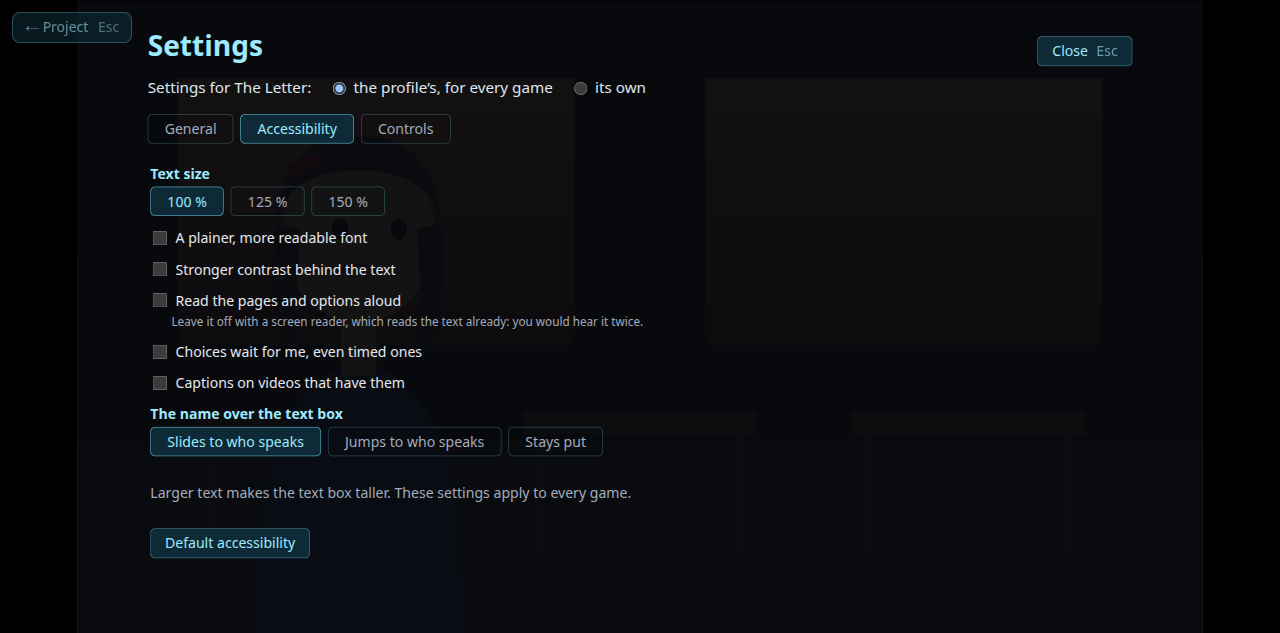
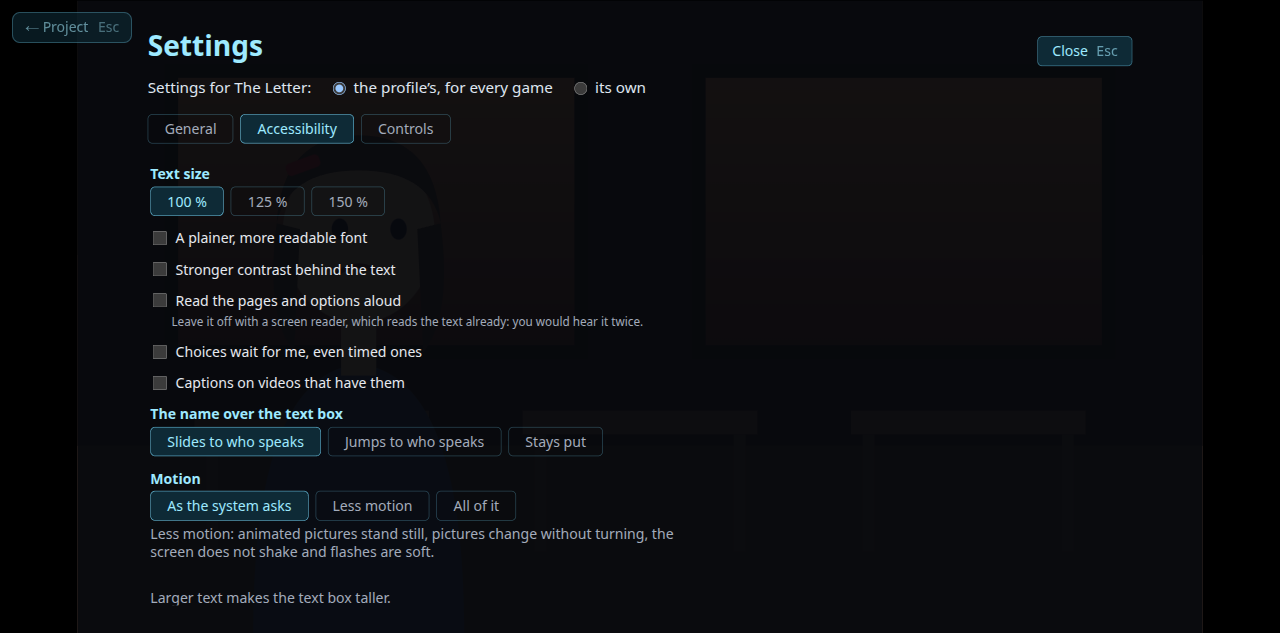
Guide images for the motion setting; the accessibility note no longer says every game

Changed region(s): [[0.0938, 0.7504, 0.5312, 0.9005], [0.125, 0.9305, 0.3125, 0.9605]]

diff --git a/packages/stage/src/i18n/settingsMessages.ts b/packages/stage/src/i18n/settingsMessages.ts
@@ -24,7 +24,7 @@ const en = {
   motions: { system: 'As the system asks', less: 'Less motion', full: 'All of it' } as Record<'system' | 'less' | 'full', string>,
   motionHelp: 'Less motion: animated pictures stand still, pictures change without turning, the screen does not shake and flashes are soft.',
   markTileHelp: 'Mark a tile works on a game board that marks, as Minesweeper flags: there its inputs mark the tile; everywhere else they keep their other use.',
-  accessibilityHelp: 'Larger text makes the text box taller. These settings apply to every game.',
+  accessibilityHelp: 'Larger text makes the text box taller.',
   actions: {
     advance: 'Next',
     back: 'Back',
@@ -97,7 +97,7 @@ const fr: SettingsMessages = {
   motions: { system: 'Comme le demande le système', less: 'Moins de mouvements', full: 'Tous' },
   motionHelp: 'Moins de mouvements\u00a0: les images animées restent immobiles, les images changent sans se retourner, l’écran ne tremble pas et les flashs sont doux.',
   markTileHelp: 'Marquer une case agit sur un plateau de jeu qui marque, comme les drapeaux du démineur\u00a0: là, ses touches marquent la case\u00a0; partout ailleurs, elles gardent leur autre usage.',
-  accessibilityHelp: 'Un texte plus grand agrandit la zone de texte. Ces réglages valent pour tous les jeux.',
+  accessibilityHelp: 'Un texte plus grand agrandit la zone de texte.',
   actions: {
     advance: 'Suivant',
     back: 'Retour',
